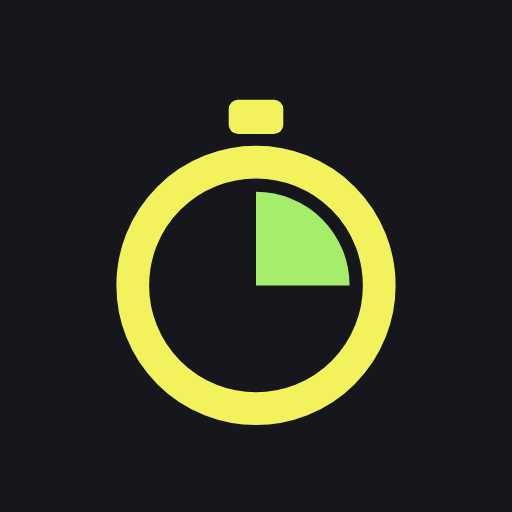
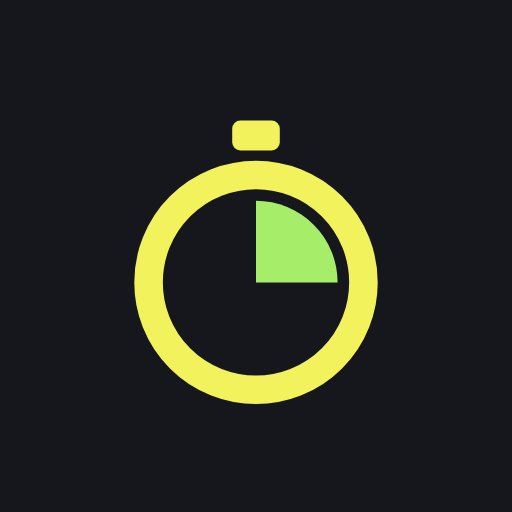
안드로이드 아이콘 여백 늘림 (런처가 가운데 2/3 만 보여 줌)

Changed region(s): [[0.2188, 0.1875, 0.7812, 0.8438]]

diff --git a/index.html b/index.html
@@ -325,7 +325,7 @@ select { width:100%; padding:9px 10px; font:inherit; font-size:15px; border:1px 
 <button type="button" id="upd" class="upd" hidden>새 버전이 있습니다 · 눌러서 새로고침</button>
 
 <script>
-const APP_VERSION = '26.11.06-13';                                      // 올릴 때마다 version.json · sw.js 와 같이 올린다
+const APP_VERSION = '26.11.06-14';                                      // 올릴 때마다 version.json · sw.js 와 같이 올린다
 const $ = s => document.querySelector(s);
 const esc = s => String(s).replace(/[&<>"]/g, c => ({ '&': '&amp;', '<': '&lt;', '>': '&gt;', '"': '&quot;' }[c]));
 const copy = o => JSON.parse(JSON.stringify(o));

diff --git a/sw.js b/sw.js
@@ -1,5 +1,5 @@
 /* WOD 타이머 - 오프라인 보관 (체육관에서 인터넷 없이도 열리게). 글꼴은 fonts-v1 에 따로 오래 보관 */
-var VERSION = "26.11.06-13";
+var VERSION = "26.11.06-14";
 var CACHE = "wod-timer-v" + VERSION;
 var CORE = ["./", "./index.html", "./manifest.webmanifest",
             "./apple-touch-icon.png", "./icon-192.png", "./icon-512.png"];
